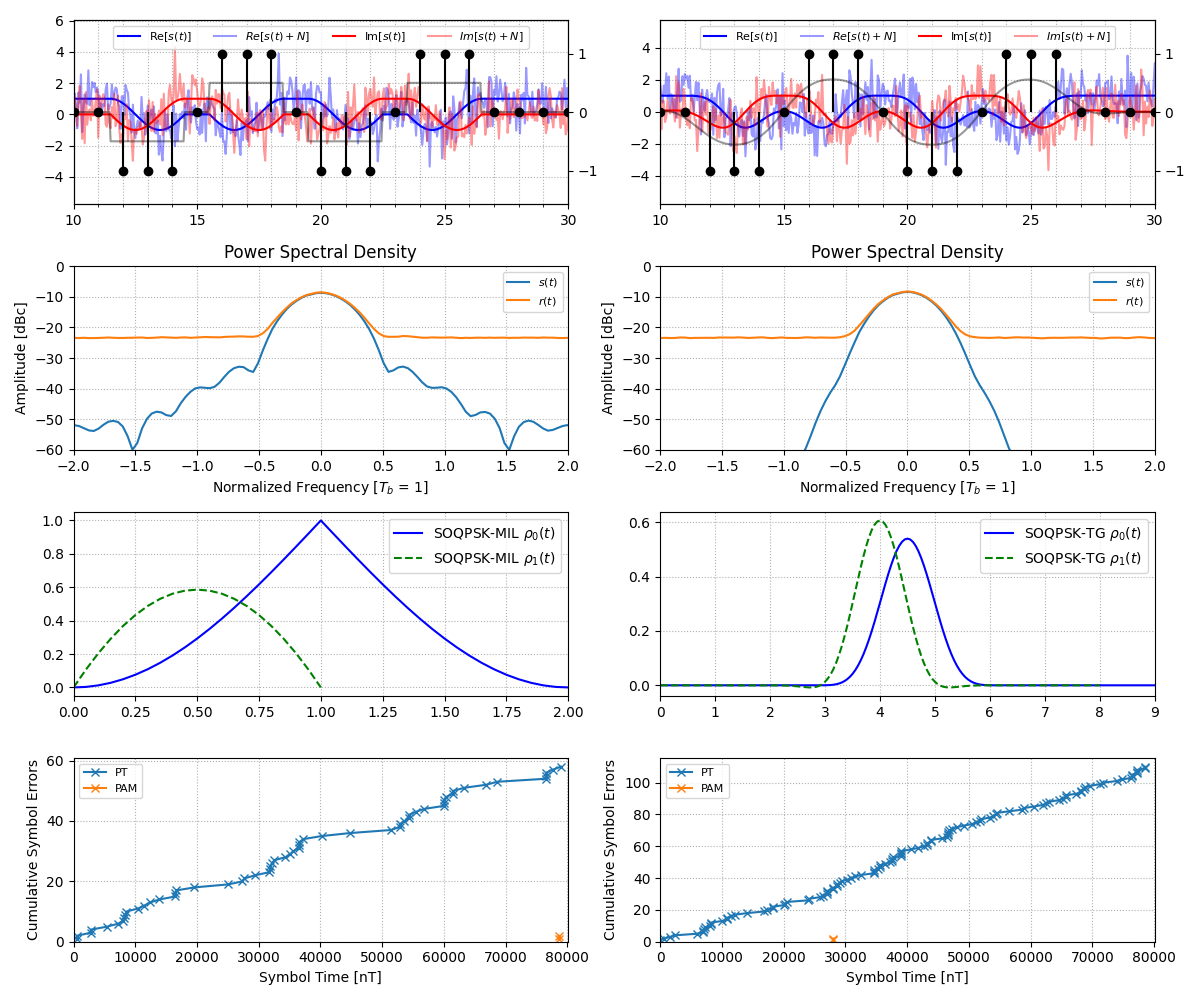
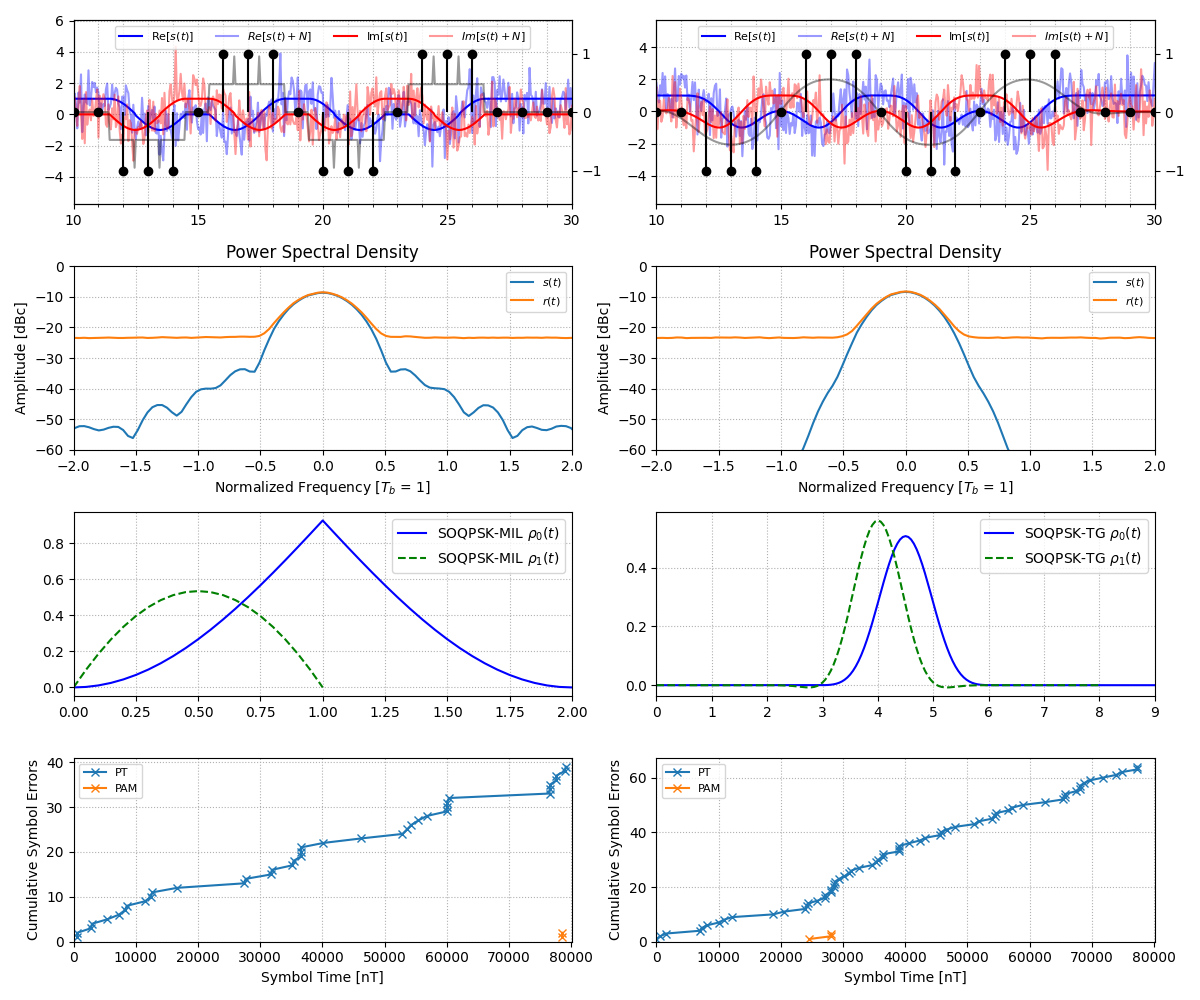
Pulse filters now correctly have L*sps+1 samples, remove array creation calls from inside

diff --git a/waveforms/viterbi/algorithm.py b/waveforms/viterbi/algorithm.py
@@ -13,12 +13,13 @@ class SOQPSKTrellisDetector:
     def __init__(self, length: int = 2) -> None:
         self.i = 0
         self.length = length
-        self.cumulative_metrics = np.zeros(4, dtype=np.float64)
         self.fsm = FiniteStateMachine(trellis=SOQPSKTrellis4x2)
         self.state_exp_term = [+j, -1, +1, -j]
-        self.bi_history= np.zeros((self.fsm.branches_per_column, length), dtype=np.float64)
+        self.bi_history = np.zeros((self.fsm.branches_per_column, length), dtype=np.float64)
+        self.metrics = np.zeros((self.fsm.states, self.length), dtype=np.float64)
+        self.path = np.zeros((self.fsm.states, self.length), dtype=np.uint8)
 
-    def va_iteration(
+    def iteration(
         self,
         mf_outputs: NDArray[np.complex128]
     ) -> Tuple[NDArray[np.uint8], NDArray[np.int8]]:
@@ -28,7 +29,7 @@ class SOQPSKTrellisDetector:
         :return: Recovered bits and recovered symbols
         """
         # Latest Branch increments
-        self.bi_history: NDArray[np.float64] = np.roll(self.bi_history, -1, axis=1)
+        self.bi_history[:, :]: NDArray[np.float64] = np.roll(self.bi_history, -1, axis=1)
         self.bi_history[:, -1] = [
             np.real(
                 self.state_exp_term[branch.start] *
@@ -37,9 +38,9 @@ class SOQPSKTrellisDetector:
             for branch in self.fsm.trellis.branches[self.i%self.fsm.columns]
         ]
         n_transitions = self.length
-        branch_metric = np.zeros((self.fsm.states, self.length), dtype=np.float64)
-        branch_metric[:, -1] = self.cumulative_metrics
-        path = np.zeros((self.fsm.states, n_transitions), dtype=np.uint8)
+        self.metrics[:, -1] = self.metrics[:, 0] - self.metrics[:, 0].min()
+        self.metrics[:, :-1] = 0
+        self.path[:, :] = 0
 
         for j in range(n_transitions):
             # Iterating branches that lead to the end state st
@@ -53,25 +54,24 @@ class SOQPSKTrellisDetector:
                     if branch.end != st:
                         continue
 
-                    mm = branch_metric[branch.start, (j-1) % n_transitions] + increment
+                    mm = self.metrics[branch.start, (j-1) % n_transitions] + increment
                     if mm < min_m:
                         min_m = mm
                         min_k = branch.start
 
-                branch_metric[st, j] = min_m
-                path[st, j] = min_k
+                self.metrics[st, j] = min_m
+                self.path[st, j] = min_k
 
         # Traceback along winning path
         recovered_symbols = np.zeros(n_transitions)
         output = np.zeros(n_transitions)
-        state = np.argmin(branch_metric[:, -1])
+        state = np.argmin(self.metrics[:, -1])
         for j in reversed(range(n_transitions)): 
             column = (self.i + j-1) % self.fsm.columns
-            branch = self.fsm.reverse_transitions[column][state][path[state, j]]
+            branch = self.fsm.reverse_transitions[column][state][self.path[state, j]]
             output[j] = branch.inp
             recovered_symbols[j] = branch.out
-            state = path[state, j]
+            state = self.path[state, j]
 
         self.i += 1
-        self.cumulative_metrics[:] = branch_metric[:, 0] - np.min(branch_metric[:, 0])
         return output, recovered_symbols

diff --git a/examples/soqpsk_detection.py b/examples/soqpsk_detection.py
@@ -124,8 +124,10 @@ if __name__ == "__main__":
 
         # Pulse Truncation Filters
         L = int(pulse_filter.size/sps)
-        truncated_freq_pulse = pulse_filter[int((L-1)*sps/2):int((L+1)*sps/2)]
-        truncated_phase_pulse = np.cumsum(normalize_cpm_filter(sps=sps, g=truncated_freq_pulse)) / sps
+        truncation = 1
+        truncated_freq_pulse = pulse_filter[int((L-truncation)*sps/2):int((L+truncation)*sps/2)+1]
+        truncated_freq_pulse = normalize_cpm_filter(sps=sps, g=truncated_freq_pulse)
+        truncated_phase_pulse = np.cumsum(truncated_freq_pulse) / sps
         mf_outputs_pt = np.zeros((3, received_signal.size), dtype=np.complex128)
         mf_outputs_pt[0, :] = np.convolve(received_signal, np.exp(-j*2*np.pi*mod_index*-2*truncated_phase_pulse), mode="same")
         mf_outputs_pt[1, :] = np.convolve(received_signal, np.exp(-j*2*np.pi*mod_index*0*truncated_phase_pulse), mode="same")
@@ -168,7 +170,7 @@ if __name__ == "__main__":
 
                 # Perform Fixed Length VA Traceback
                 sym_idx = int((n + timing_offset) / sps)
-                rbits, rsyms = det.va_iteration(mf_outputs[:, n])
+                rbits, rsyms = det.iteration(mf_outputs[:, n])
                 output_symbols.append(rsyms[0])
                 output_bits.append(rbits[0])
 
@@ -184,8 +186,9 @@ if __name__ == "__main__":
 
         # Plot Rho pulses used for PAM Approximation
         for k, rho_k, fmt in zip(range(k_max), rho, ("b-", "g--")):
+            t = np.linspace(0, (rho_k.size-1)/sps, num=rho_k.size)
             rho_ax.plot(
-                np.linspace(0, (rho_k.size-1)/sps, num=rho_k.size),
+                t,
                 rho_k,
                 fmt,
                 label=fr"SOQPSK-{label} $\rho_{k}(t)$"

diff --git a/waveforms/cpm/pamapprox.py b/waveforms/cpm/pamapprox.py
@@ -9,12 +9,12 @@ def pam_unit_pulse(
     phase_pulse: NDArray[np.float64],
     mod_index: float,
 ) -> NDArray[np.float64]:
-    response = np.zeros(phase_pulse.size*2+1, dtype=np.float64)
+    response = np.zeros(phase_pulse.size*2-1, dtype=np.float64)
     pih = mod_index*np.pi
     response[1:phase_pulse.size+1] = (
         np.sin(2*pih*phase_pulse) / np.sin(pih)
     )
-    response[phase_pulse.size+1:] = (
+    response[phase_pulse.size-1:] = (
         np.sin(pih -2*pih*phase_pulse) / np.sin(pih)
     )
     return response

diff --git a/waveforms/cpm/multih/pulse_filters.py b/waveforms/cpm/multih/pulse_filters.py
@@ -11,6 +11,6 @@ def freq_pulse_multih_irig(
     sps: int = 8,
     length: float = 3
 ) -> NDArray[np.float64]:
-    t_norm = np.linspace(0, length, num=length*sps)
+    t_norm = np.linspace(0, length, num=length*sps+1)
     g = (1 - np.cos(2 * np.pi * t_norm / length)) / (2 * length)
     return normalize_cpm_filter(sps, g)

diff --git a/waveforms/cpm/soqpsk/pulse_filters.py b/waveforms/cpm/soqpsk/pulse_filters.py
@@ -17,7 +17,7 @@ def freq_pulse_soqpsk(
     t_norm = np.linspace(
         -tau_max,
         tau_max,
-        num=int(tau_max * sps * 2),
+        num=int(tau_max * sps * 2)+1,
         dtype=np.float64
     )
     g = (
